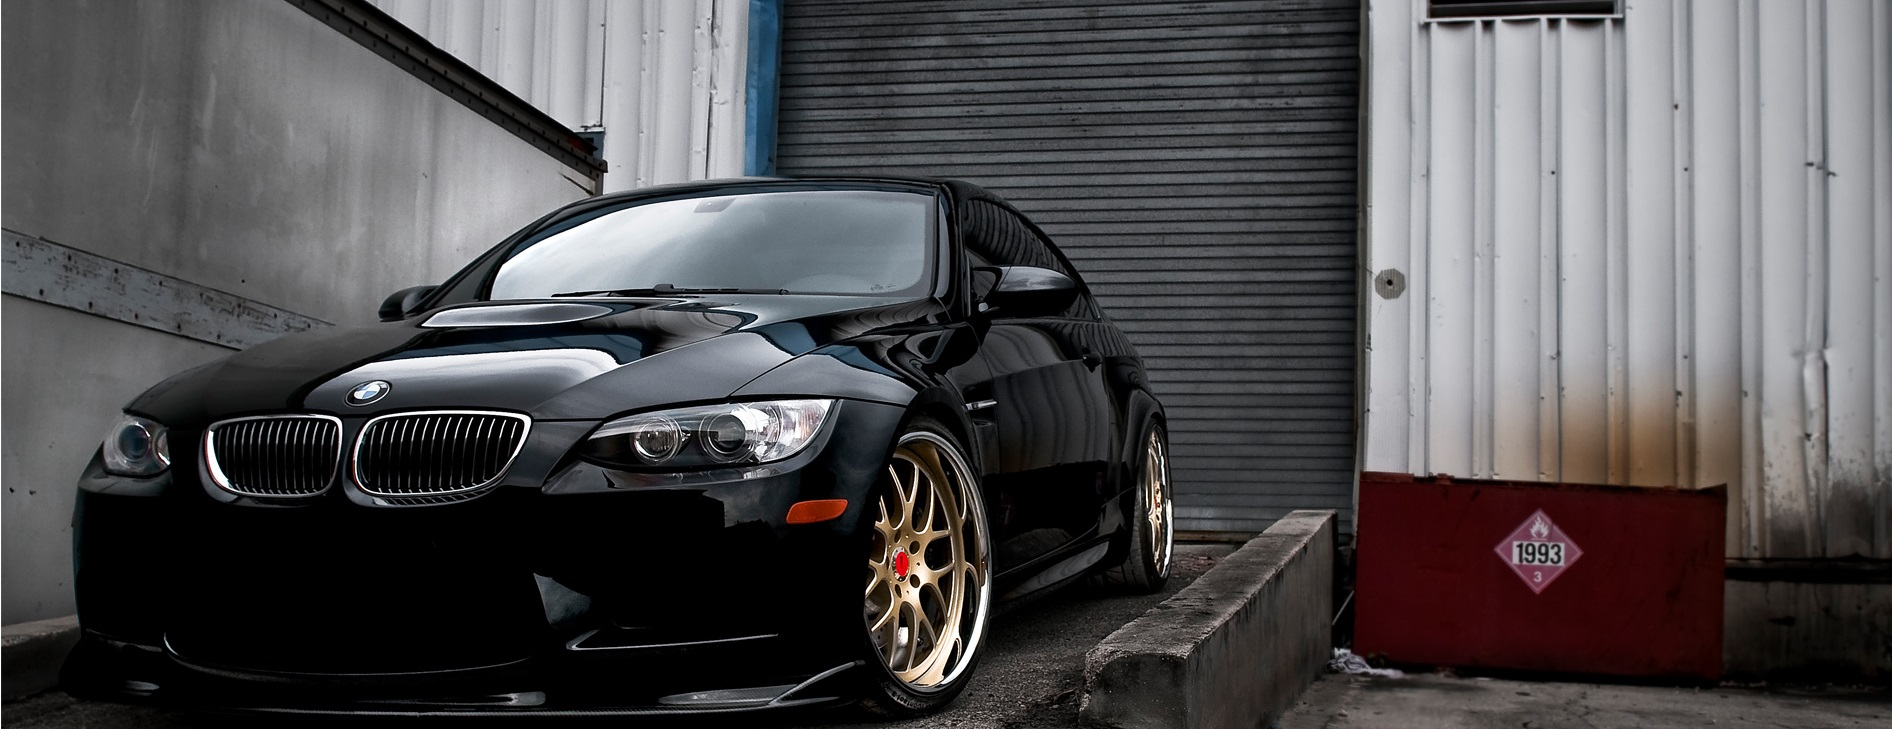
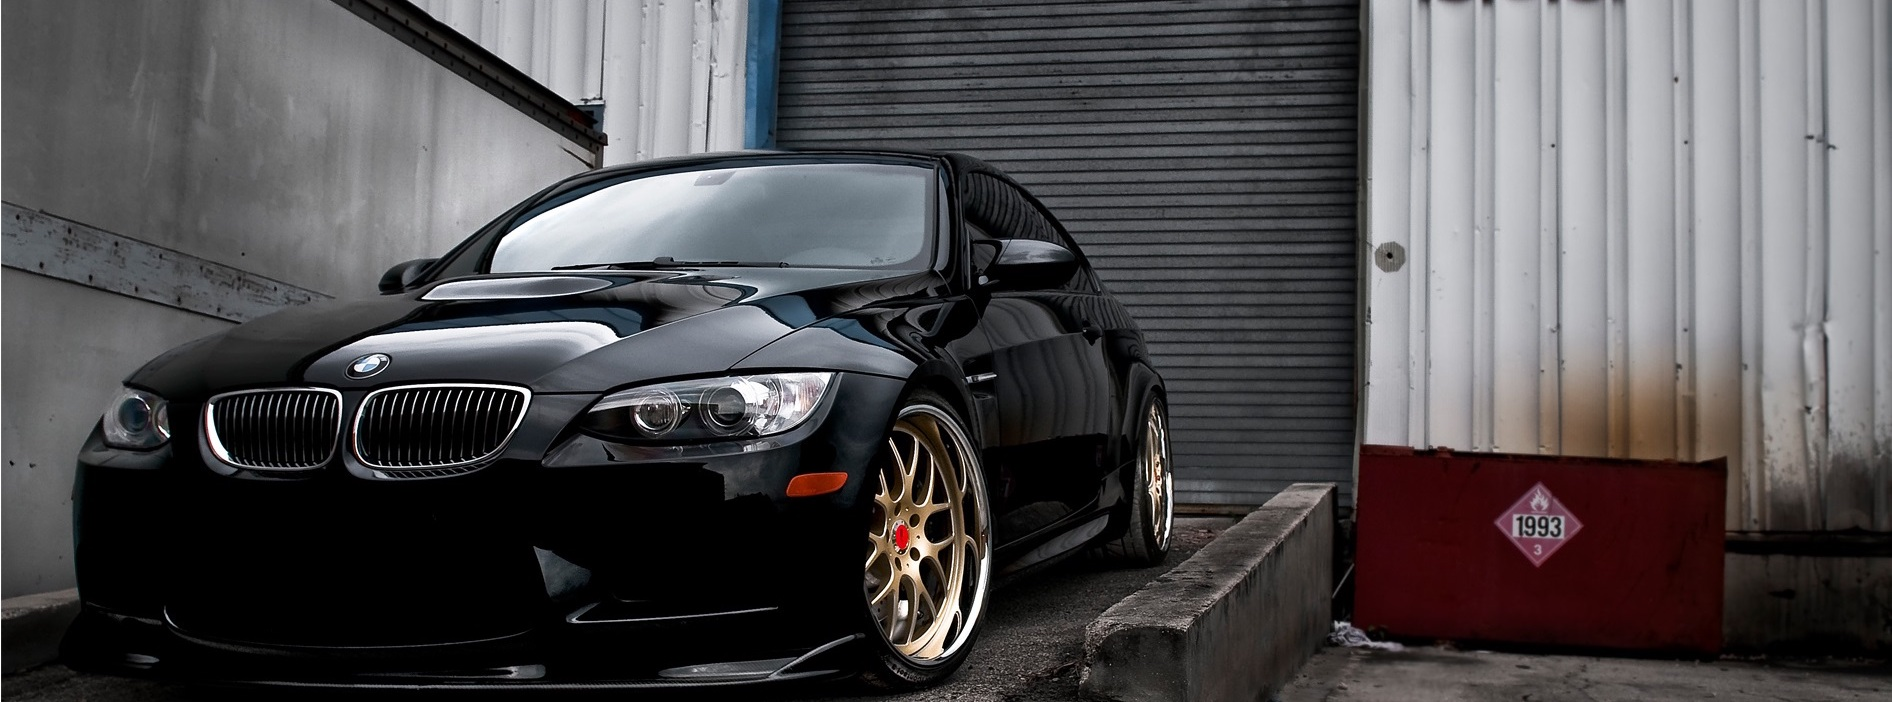
imgs crop

diff --git a/index.html b/index.html
@@ -56,27 +56,27 @@
 
     <div class="slideshow-container">
       <div class="mySlides fade">
-        <img class="slideImg" src="./public/paintRoom.jpg" style="width:100%">
+        <img class="slideImg" src="./public/paintRoom.jpg">
       </div>
 
       <div class="mySlides fade">
-        <img class="slideImg" src="./public/bmw.jpg" style="width:100%">
+        <img class="slideImg" src="./public/bmw.jpg">
       </div>
 
       <div class="mySlides fade">
-        <img class="slideImg" src="./public/ferrari.jpg" style="width:100%">
+        <img class="slideImg" src="./public/ferrari.jpg">
       </div>
 
       <div class="mySlides fade">
-        <img class="slideImg" src="./public/hemi.jpg" style="width:100%">
+        <img class="slideImg" src="./public/hemi.jpg">
       </div>
 
       <div class="mySlides fade">
-        <img class="slideImg" src="./public/ferrari2.jpg" style="width:100%">
+        <img class="slideImg" src="./public/ferrari2.jpg">
       </div>
 
       <div class="mySlides fade">
-        <img class="slideImg" src="./public/frontBusiness2.jpg" style="width:100%">
+        <img class="slideImg" src="./public/frontBusiness2.jpg">
       </div>
 
       <a class="prev" onclick="plusSlides(-1)">&#10094;</a>

diff --git a/index.css b/index.css
@@ -148,18 +148,16 @@ li:hover{
   position: relative;
   margin: 0;
   width: 100vw;
-  height: 65vh;
   box-shadow: 0px 2px 16px 9px rgba(64,64,64,1);
 
 }
 
 .mySlides {
     display: none;
-    height: 65vh;
     width: 100vw;
+
 }
 .slideImg{
-  height: 65vh;
   width: 100vw;
 }
 
@@ -346,6 +344,8 @@ li:hover{
   display: flex;
   justify-content: center;
   align-items: center;
+  box-shadow: 0px 0px 52px -3px rgba(0,0,0,0.75);
+
 }
 
 #carIcon{
